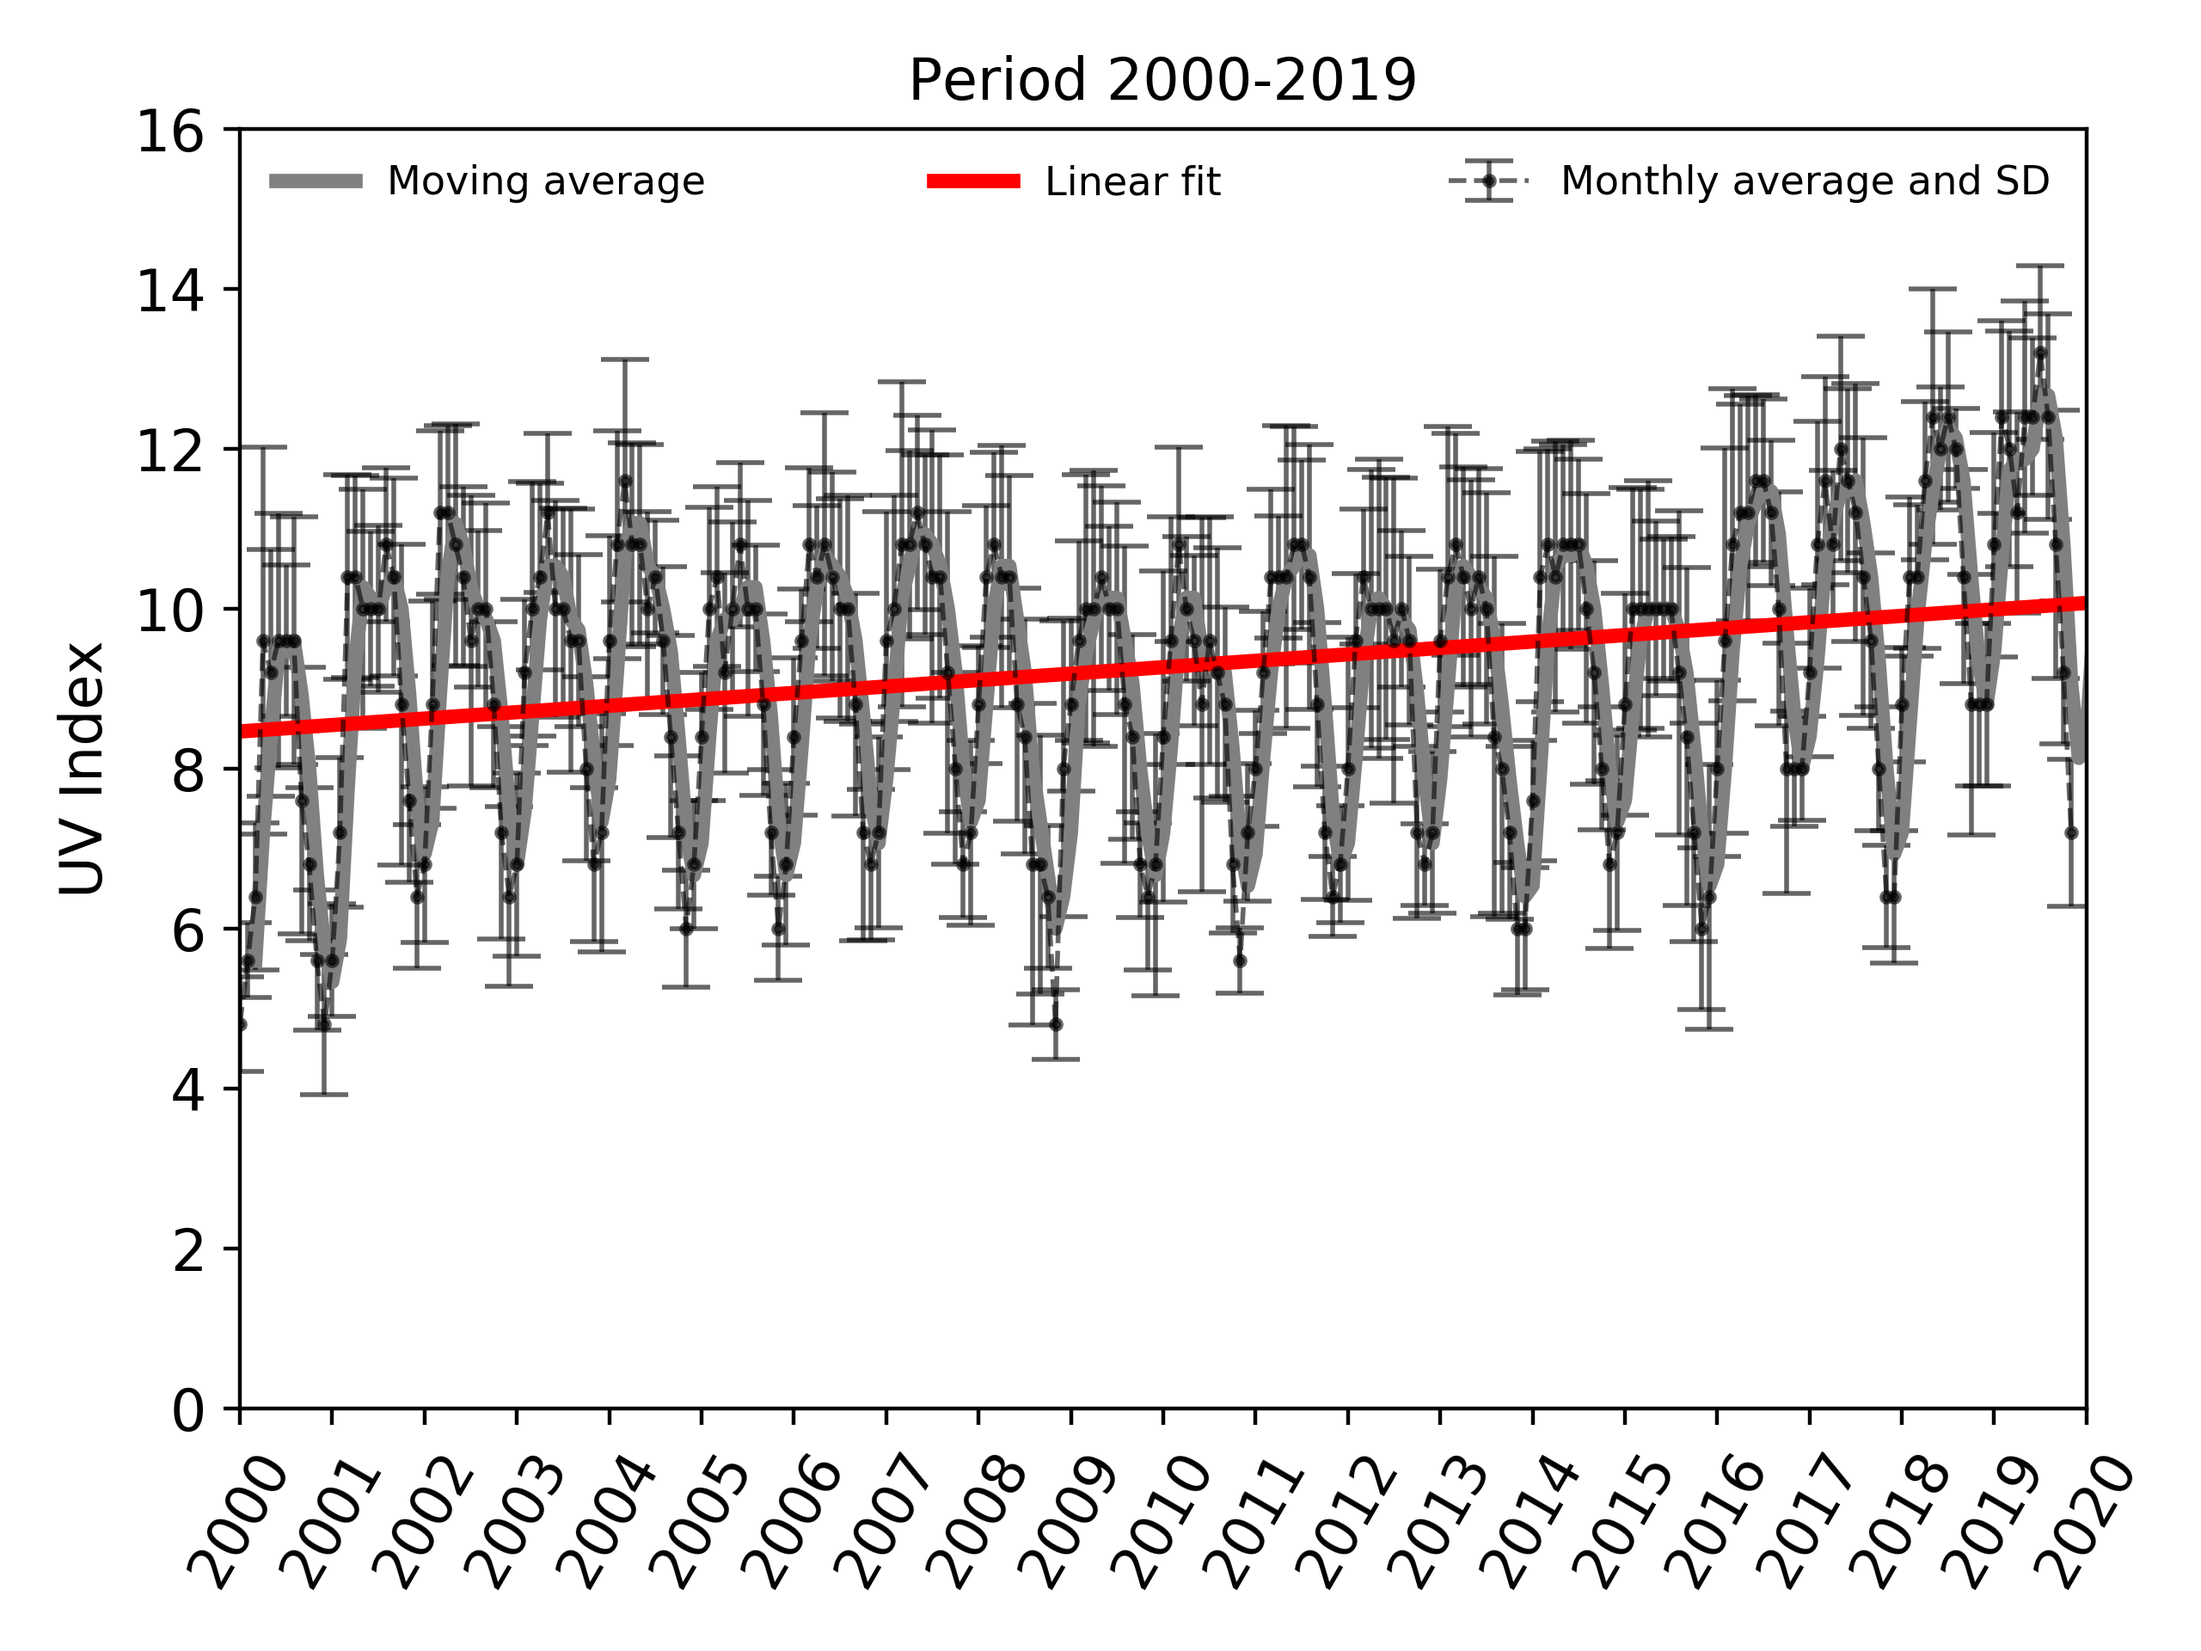
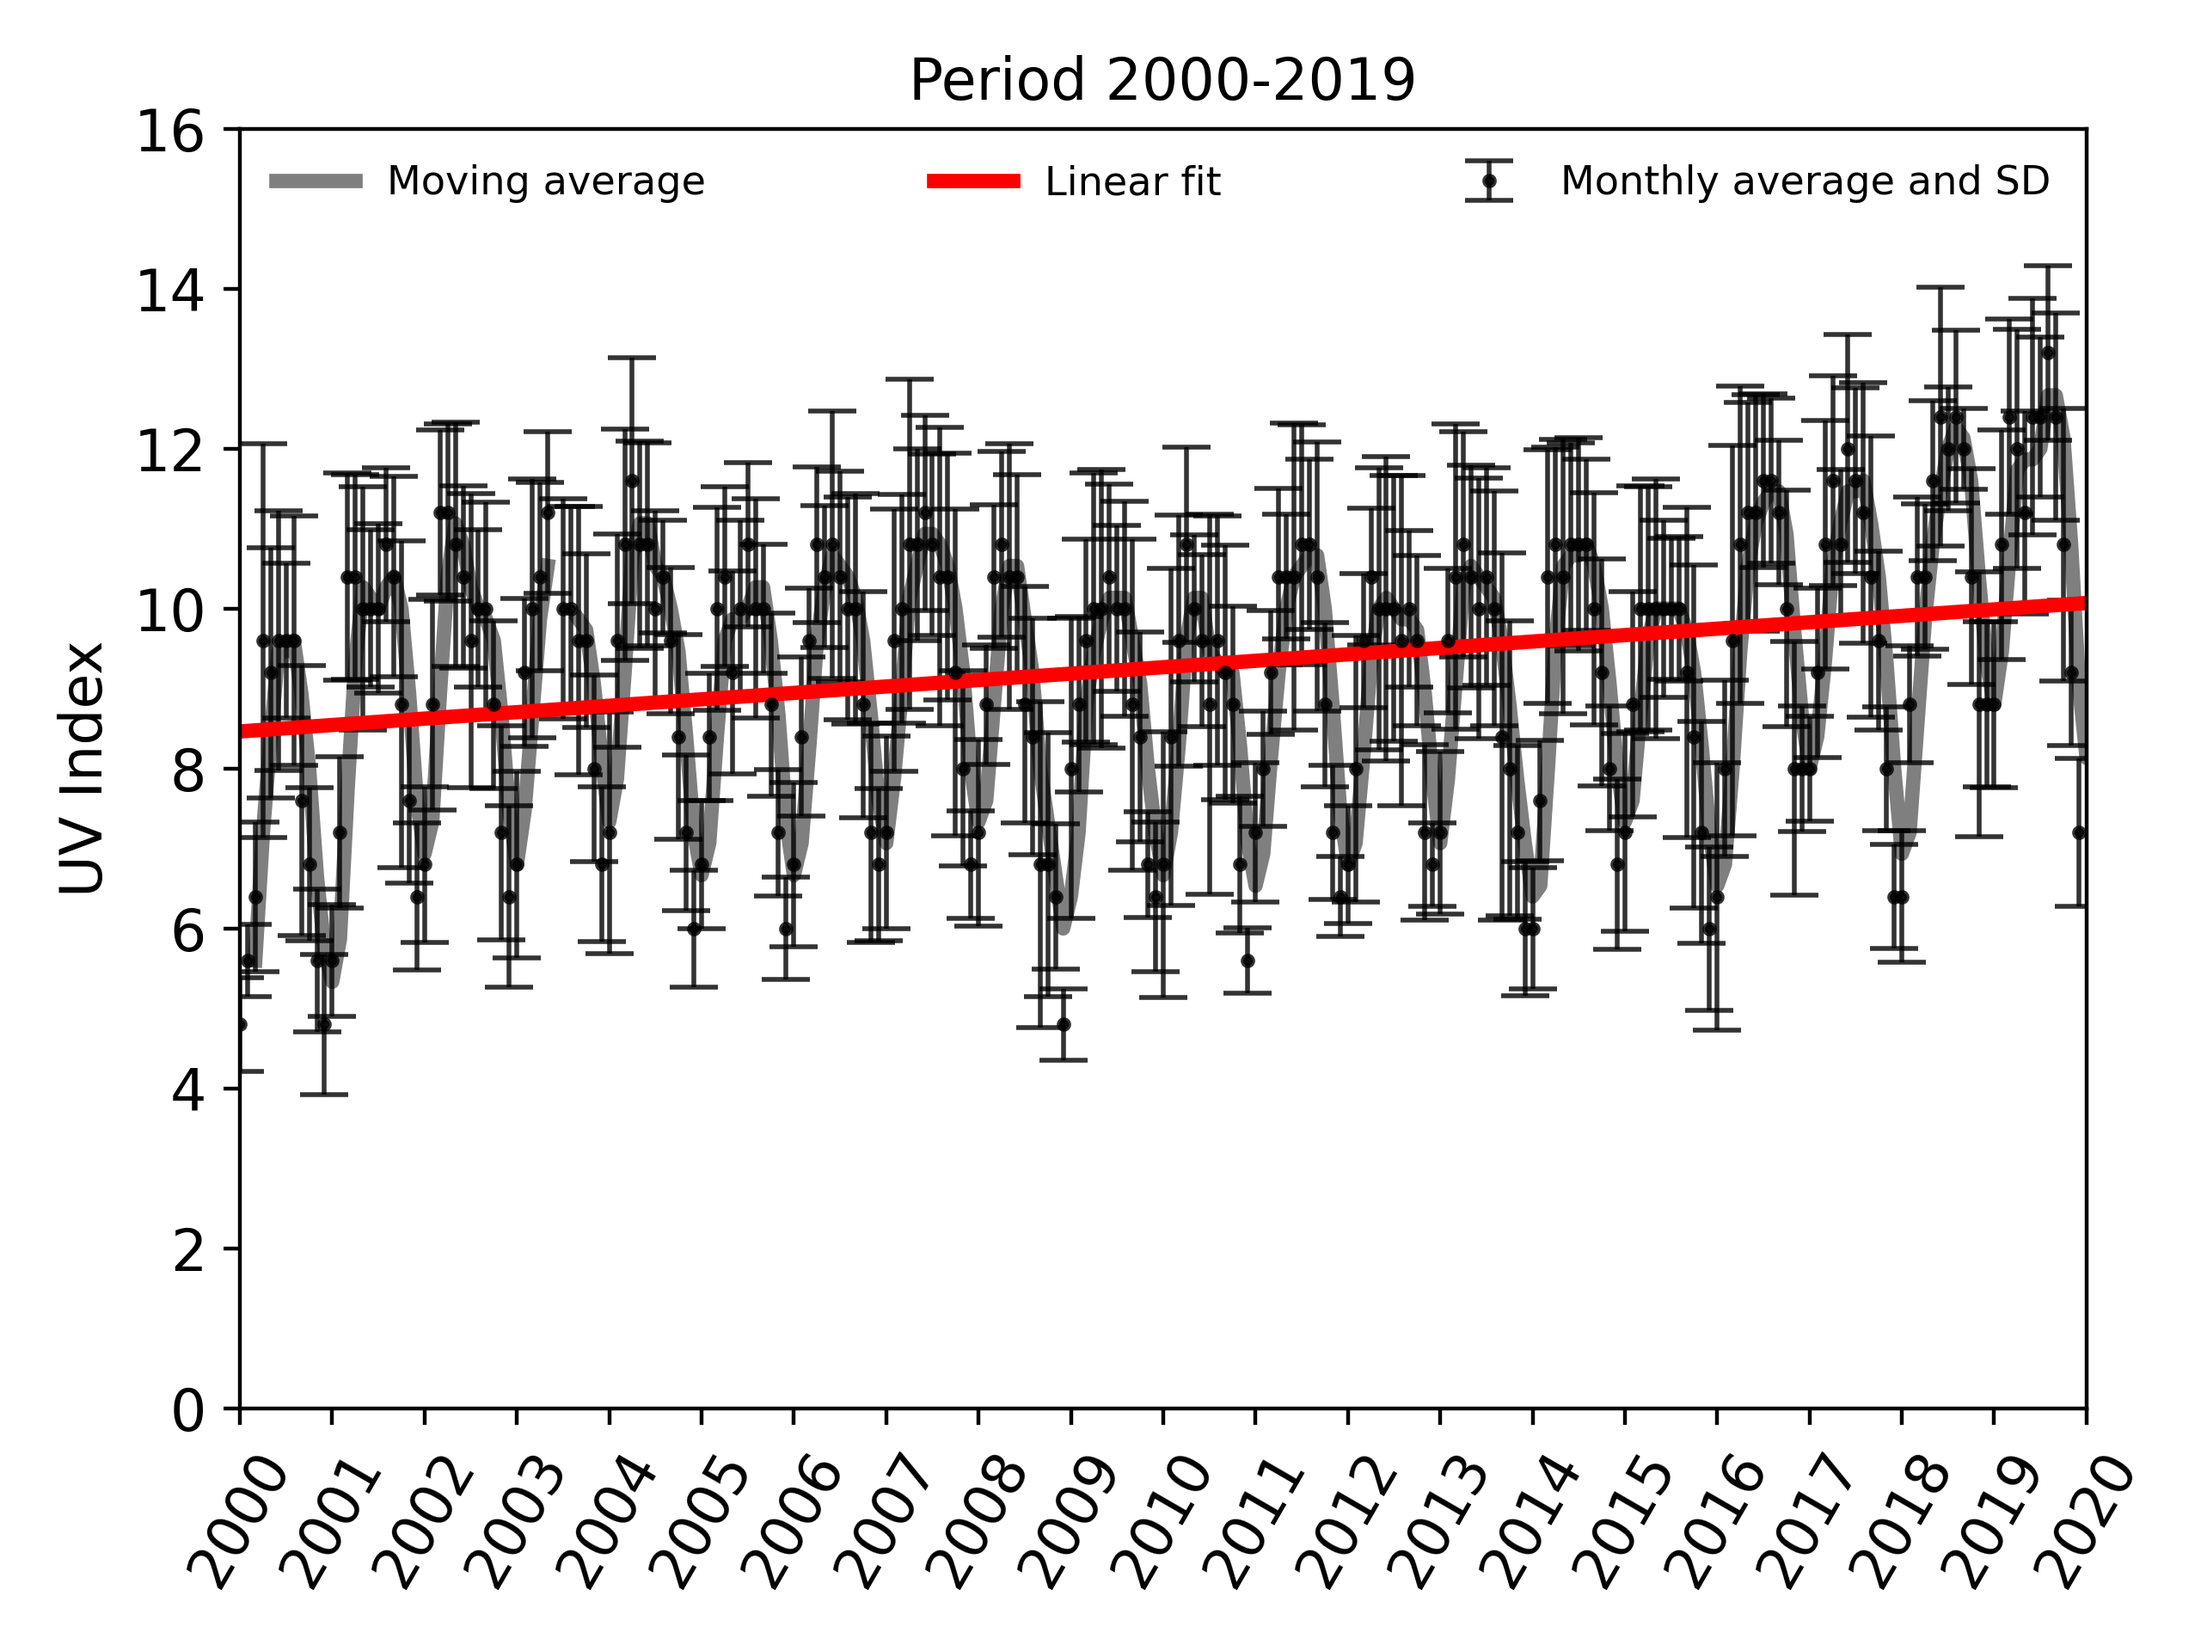
Change on Histogram and Movile Average Graphics

Changed region(s): [[0.0938, 0.1562, 0.9688, 0.6562], [0.4375, 0.0312, 0.625, 0.0625], [0.6562, 0.0938, 0.6875, 0.125]]

diff --git a/2000-2019/Scripts/Graphics_Histogram_UV.py b/2000-2019/Scripts/Graphics_Histogram_UV.py
@@ -44,15 +44,41 @@ def format_data(data, resize):
     return data
 
 
+def plot_grid(UV_max, percentage_limit):
+    even = np.arange(0, percentage_limit+2, 2)
+    odd = even-1
+    for i in range(np.size(even)):
+        plt.plot([-4,  UV_max+1],
+                 [even[i], even[i]],
+                 color="black",
+                 ls="--",
+                 alpha=0.5)
+        plt.plot([-4, UV_max+1],
+                 [odd[i], odd[i]],
+                 color="gray",
+                 ls="--",
+                 alpha=0.3)
+
+
+def obtain_xticks(UV_values):
+    return np.append(UV_values, UV_values[-1]+1)
+
+
+def obtain_yticks(percentage_limit):
+    return np.arange(0, percentage_limit+2, 2)
+
+
 def autolabel(rects):
-    """Attach a text UV_list above each bar in *rects*, displaying its height."""
-    for rect, i in zip(rects, range(len(rects))):
+    """Attach a text UV_values above each bar in *rects*, displaying its height."""
+    for i, rect in enumerate(rects):
         height = rect.get_height()
         ax.annotate("{:.2f}".format(height),
                     xy=(rect.get_x() + rect.get_width() / 2, height),
                     xytext=(0, 3),  # 3 points vertical offset
                     textcoords="offset points",
-                    ha='center', va='bottom', fontsize=9)
+                    ha='center',
+                    va='bottom',
+                    fontsize=9)
 
 
 inputs = {
@@ -64,11 +90,11 @@ inputs = {
     "hour final": 16,
     "UV minium": 1,
     "UV maximum": 16,
+    "Percentage limit": 20,
 }
 UV_count = np.zeros(inputs["UV maximum"]-inputs["UV minium"])
-UV_list = np.arange(inputs["UV minium"],
-                    inputs["UV maximum"])
-X = UV_list-1
+UV_values = np.arange(inputs["UV minium"],
+                      inputs["UV maximum"])
 font_size = 13
 files = sorted(os.listdir(inputs["path data"]))
 n_total = 0
@@ -93,33 +119,32 @@ for wavelength in inputs["wavelength"]:
                     UV = int(UV-inputs["UV minium"])
                     UV_count[UV] += 1
                     n_total += 1
-Y = np.arange(0, 20+2, 2)
 UV_count = UV_count*100/n_total
 fig, ax = plt.subplots(figsize=(9, 7))
-plt.xticks(np.append(X, inputs["UV maximum"]-1)-0.5,
-           np.append(UV_list, inputs["UV maximum"]),
-           fontsize=font_size)
-plt.yticks(Y, fontsize=font_size)
 plt.ylim(0, 20)
-plt.xlim(-1, X.max()+1)
-plt.xlabel("UV Index daily maximum", fontsize=font_size)
+plt.xlim(-1, inputs["UV maximum"]+1)
+plt.xlabel("Daily maximums UV Index", fontsize=font_size)
 plt.ylabel("Frequency (%) of Days", fontsize=font_size)
 plt.title("Period 2000-2019", fontsize=font_size)
-# <--------Grafica de las grillas---------->
-# <----Numeros pares------>
-even = np.arange(2, 24+2, 2)
-# <----Numeros impares----->
-odd = np.arange(1, 24+2+1, 2)
-for i in range(np.size(even)):
-    plt.plot([-4, inputs["UV maximum"]+1], [even[i], even[i]],
-             color="black", ls="--", alpha=0.5)
-    plt.plot([-4, inputs["UV maximum"]+1], [odd[i], odd[i]],
-             color="gray", ls="--", alpha=0.3)
-rect = ax.bar(X, UV_count,
-              color="#00838a", width=1, edgecolor="black")
-autolabel(rect)
+rects = ax.bar(UV_values, UV_count,
+               color="#00838a",
+               width=1,
+               edgecolor="black")
+autolabel(rects)
+plot_grid(inputs["UV maximum"],
+          inputs["Percentage limit"])
+xticks = obtain_xticks(UV_values)
+yticks = obtain_yticks(inputs["Percentage limit"])
+plt.xticks(xticks-0.5,
+           xticks,
+           fontsize=font_size)
+plt.yticks(yticks,
+           fontsize=font_size)
 # <--------Guardado de la grafica-------------->
-plt.subplots_adjust(left=0.102, bottom=0.093, right=0.962, top=0.936)
-#plt.savefig(inputs["path graphics"]+"Histogram_UVI.png", dpi=400)
+plt.subplots_adjust(left=0.102,
+                    bottom=0.093,
+                    right=0.962,
+                    top=0.936)
+plt.savefig("{}Histogram.png".format(inputs["path graphics"]),
+            dpi=400)
 plt.show()
-plt.clf()

diff --git a/2000-2019/Scripts/Graphics_Movile_Mean_UV.py b/2000-2019/Scripts/Graphics_Movile_Mean_UV.py
@@ -9,12 +9,12 @@ import datetime
 def read_data(path, file):
     # <-------------Lectura de los datos------------------>
     data = pd.read_csv("{}{}".format(path,
-                                     file))
+                                     file),
+                       index_col=0)
     # <---------Erythemal a UVI-------------->
-    data["Max Data"] = data["Max Data"]*40
+    data["Max"] = data["Max"]*40
     data["std"] = data["std"]*40
-    data.index = pd.to_datetime(data["Date"])
-    data = data.drop("Date", 1)
+    data.index = pd.to_datetime(data.index)
     return data
 
 
@@ -37,33 +37,31 @@ inputs = {
     "year final": 2019,
     "path data": "../Archivos/",
     "path graphics": "../Graphics/",
-    "file data": "Max_Monthly_Ery.csv",
+    "file data": "Max_Monthly_UVB.csv",
 }
 data = read_data(inputs["path data"],
                  inputs["file data"])
 # <------------Moving average------------->
-moving_average_data = obtain_moving_average_monthly(data["Max Data"], 3)
-print(data[data.index >= "2020-01-01"])
+moving_average_data = obtain_moving_average_monthly(data["Max"], 3)
 data = cut_data(data,
                 "2000-01-01",
                 "2019-12-01",)
-print(data)
 # <--------------Tendencia----------------->
 yearly_mean = obtain_yearly_mean(data)
 mean_data = yearly_mean.mean()
 fit = np.polyfit(list(yearly_mean.index.year),
-                 list(yearly_mean["Max Data"]), 1)
+                 list(yearly_mean["Max"]), 1)
 
 print("Parameter\tm\tMean\tTendency")
 print("UVI:\t   \t{:.2f}\t{:.1f}\t{:.1f}".format(fit[0],
-                                                 mean_data["Max Data"],
-                                                 fit[0]*100/mean_data["Max Data"]))
+                                                 mean_data["Max"],
+                                                 fit[0]*100/mean_data["Max"]))
 
 fit = np.poly1d(fit)
 years = list(yearly_mean.index.year)
 years.append(2020)
 years = np.array(years)
-pd2 = fit(years)
+Fit_line = fit(years)
 # <-------Inicio de la grafica UVyearlyError-------->
 plt.xticks((years-inputs["year initial"])*12,
            years,
@@ -74,27 +72,32 @@ plt.title("Period 2000-2019",
           fontsize="large")
 plt.ylabel("UV Index",
            fontsize="large")
-plt.xlim(0, 20*12)
-plt.ylim(0, 16)
+plt.xlim(0,
+         (inputs["year final"]-inputs["year initial"]+1)*12)
+plt.ylim(0,
+         16)
 # # <------------Barras de error--------------->
-plt.errorbar(range(data["Max Data"].count()), list(data["Max Data"]),
+plt.errorbar(range(len(data["Max"])),
+             list(data["Max"]),
              yerr=data["std"],
              marker="o",
              linewidth=1,
-             ls="--",
-             alpha=0.6,
+             ls="None",
+             alpha=0.8,
              color="black",
              capsize=5,
              markersize=2,
              label="Monthly average and SD")
 # # <--------Ploteo del moving average para 3 meses----------->
-plt.plot(range(moving_average_data.count()+2),
+plt.plot(range(len(moving_average_data)),
          list(moving_average_data),
          label="Moving average",
          linewidth=3,
-         color="grey")
+         color="#000000",
+         alpha=0.5)
 # # <-----------Ploteo de linear fit------------------>
-plt.plot([i*12 for i in range(21)], pd2,
+plt.plot((years-inputs["year initial"])*12,
+         Fit_line,
          label="Linear fit",
          color="red",
          linewidth=3)
@@ -112,4 +115,3 @@ plt.legend(ncol=3,
 # # <---------------Guardado de la grafica-------------->
 plt.savefig("{}UV_Moving_Average.png".format(inputs["path graphics"]),
             dpi=400)
-plt.show()
